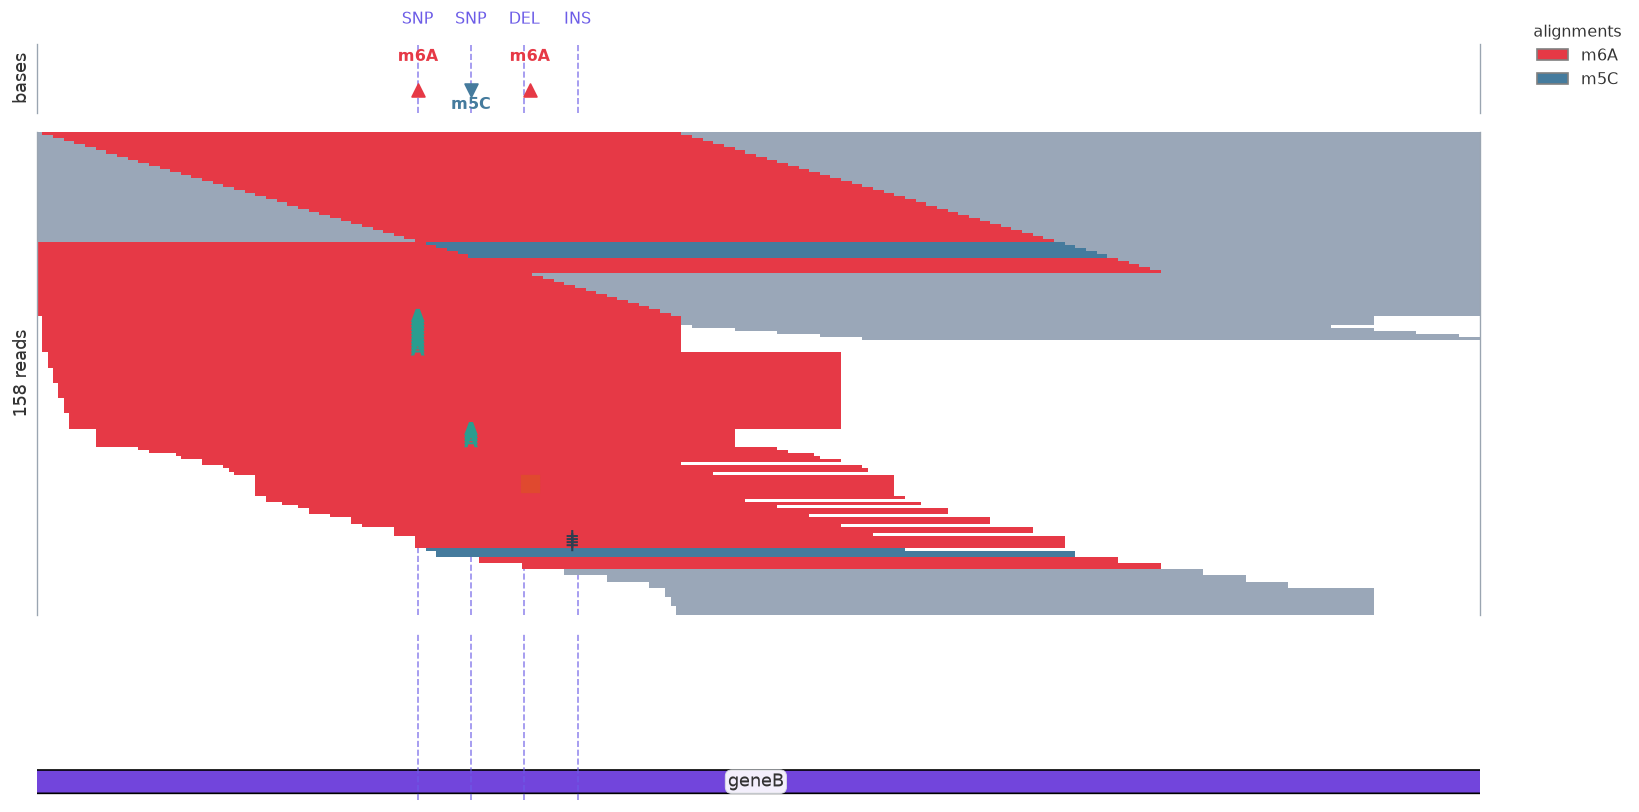
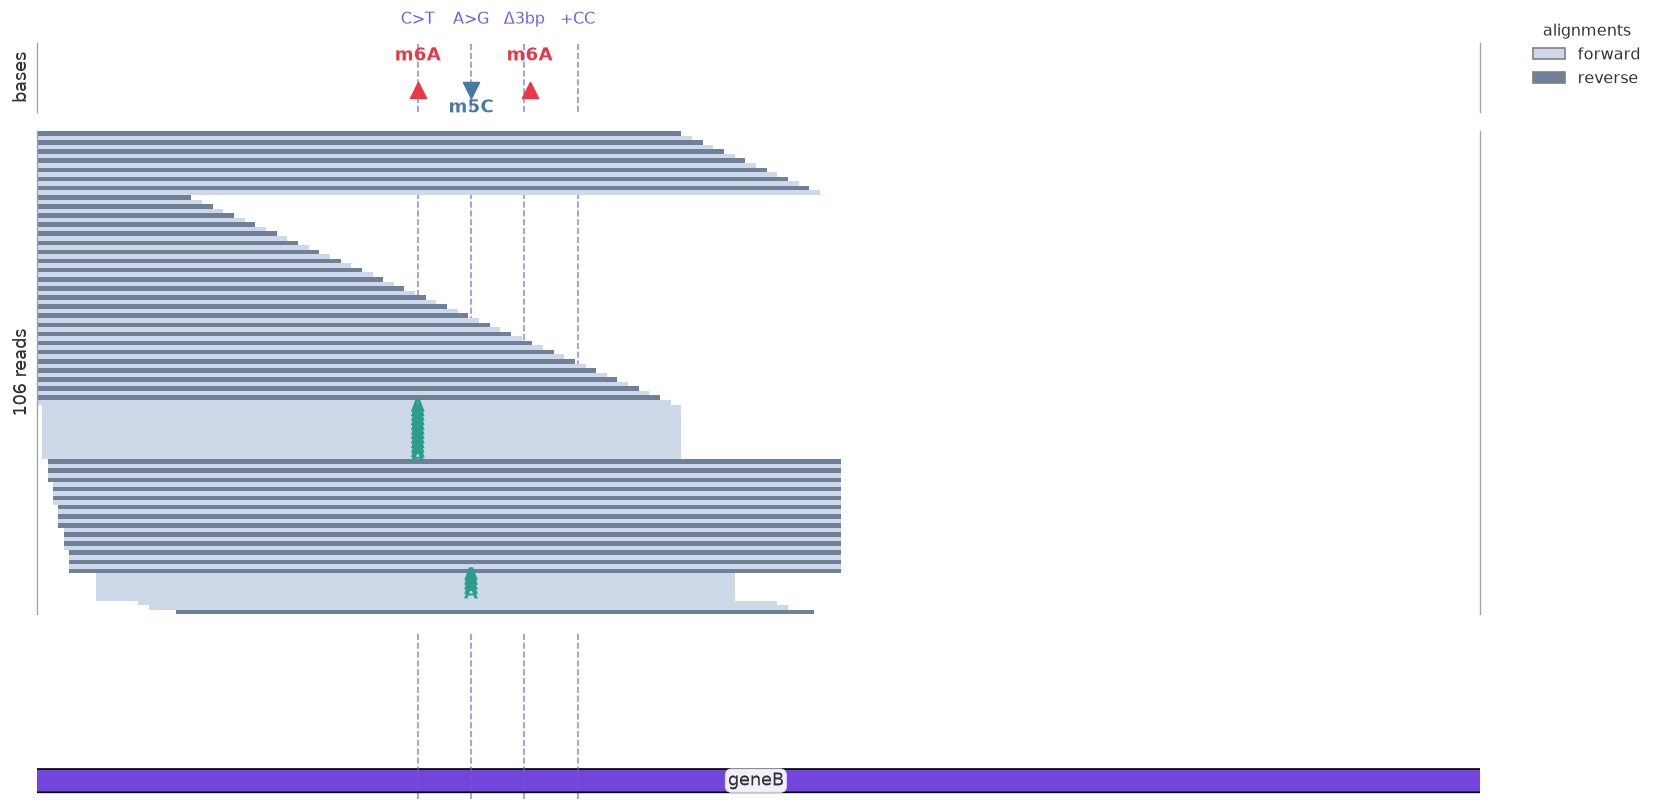
Visual polish: base-mod markers, TAD baseline, cleaner basemod figure
- draw_base_mod_track: larger, clearer strand markers (m6A/m5C) with bigger labels.
- add_tads: draw a subtle baseline under TAD triangles; fix the TAD ylabel font size.
- Gallery basemod figure: cleaner strand-coloured reads with the mod marker track
  on top (color_by=basemod stays available); update the README caption.
- Regenerated affected gallery figures.

diff --git a/igvplot/plot.py b/igvplot/plot.py
@@ -1079,8 +1079,8 @@ def draw_base_mod_track(
     ax,
     mods: Dict[int, tuple],
     region: Region,
-    label_fontsize: float = 9.5,
-    marker_size: float = 60,
+    label_fontsize: float = 10.5,
+    marker_size: float = 90,
 ) -> None:
     """Draw a strand-aware base-modification track.
 
@@ -1100,7 +1100,7 @@ def draw_base_mod_track(
         ax.scatter([pos + 0.5], [0], marker=marker, c=[color], s=marker_size, zorder=4)
         ax.text(
             pos + 0.5,
-            0.55 if strand >= 0 else -0.15,
+            0.6 if strand >= 0 else -0.2,
             label,
             ha="center",
             va="bottom" if strand >= 0 else "top",
@@ -1110,7 +1110,7 @@ def draw_base_mod_track(
             zorder=5,
         )
     ax.set_xlim(region.start, region.end)
-    ax.set_ylim(-0.5, 1.0)
+    ax.set_ylim(-0.5, 1.1)
     ax.set_yticks([])
     ax.set_ylabel("bases", fontsize=_fs(11))
 

diff --git a/examples/generate_gallery.py b/examples/generate_gallery.py
@@ -128,13 +128,13 @@ def color_mapq():
 
 
 def basemod():
-    """Strand-aware base-modification track + reads coloured by the mod they span."""
+    """Strand-aware base-modification track (m6A/m5C markers) over clean reads."""
     view = (
         GenomeView(region=HERO_REGION, reference=REF, figsize=(13, 7))
         .add_base_mods({7000: (1, "m6A"), 7010: (-1, "m5C"), 7021: (1, "m6A")})
-        .add_reads(BAM, reference=REF, color_by="basemod")
+        .add_reads(BAM, reference=REF, color_by="strand", max_reads=120)
         .add_features(GB, min_feature_length=3)
-        .add_sites({7000: "SNP", 7010: "SNP", 7020: "DEL", 7030: "INS"})
+        .add_sites({7000: "C>T", 7010: "A>G", 7020: "Δ3bp", 7030: "+CC"})
     )
     save(view, "gallery_basemod.png", dpi=120)
 

diff --git a/igvplot/view.py b/igvplot/view.py
@@ -433,10 +433,11 @@ class GenomeView:
                         zorder=3,
                     )
                 )
+            ax.axhline(0, color="#c9d1d9", lw=0.8, zorder=1)  # baseline
             ax.set_xlim(region.start, region.end)
             ax.set_ylim(-0.2, 1.0)
             ax.set_yticks([])
-            ax.set_ylabel(label, fontsize=8)
+            ax.set_ylabel(label, fontsize=_fs(11))
 
         self.tracks.append(Track(weight=0.4, kind="tads", draw=_draw))
         return self

diff --git a/README.md b/README.md
@@ -36,8 +36,8 @@ each paired fragment on a single joined row (IGV "view as pairs").
 
 ## Epigenetic base modifications
 
-Strand-aware m6A / m5C / … markers, with reads **coloured by the modification
-they span** (`color_by="basemod"`).
+Strand-aware m6A / m5C / … markers in a dedicated track (`add_base_mods`). Reads
+can be coloured by the modification they span (`color_by="basemod"`).
 
 ![base modifications](examples/gallery_basemod.png)
 
